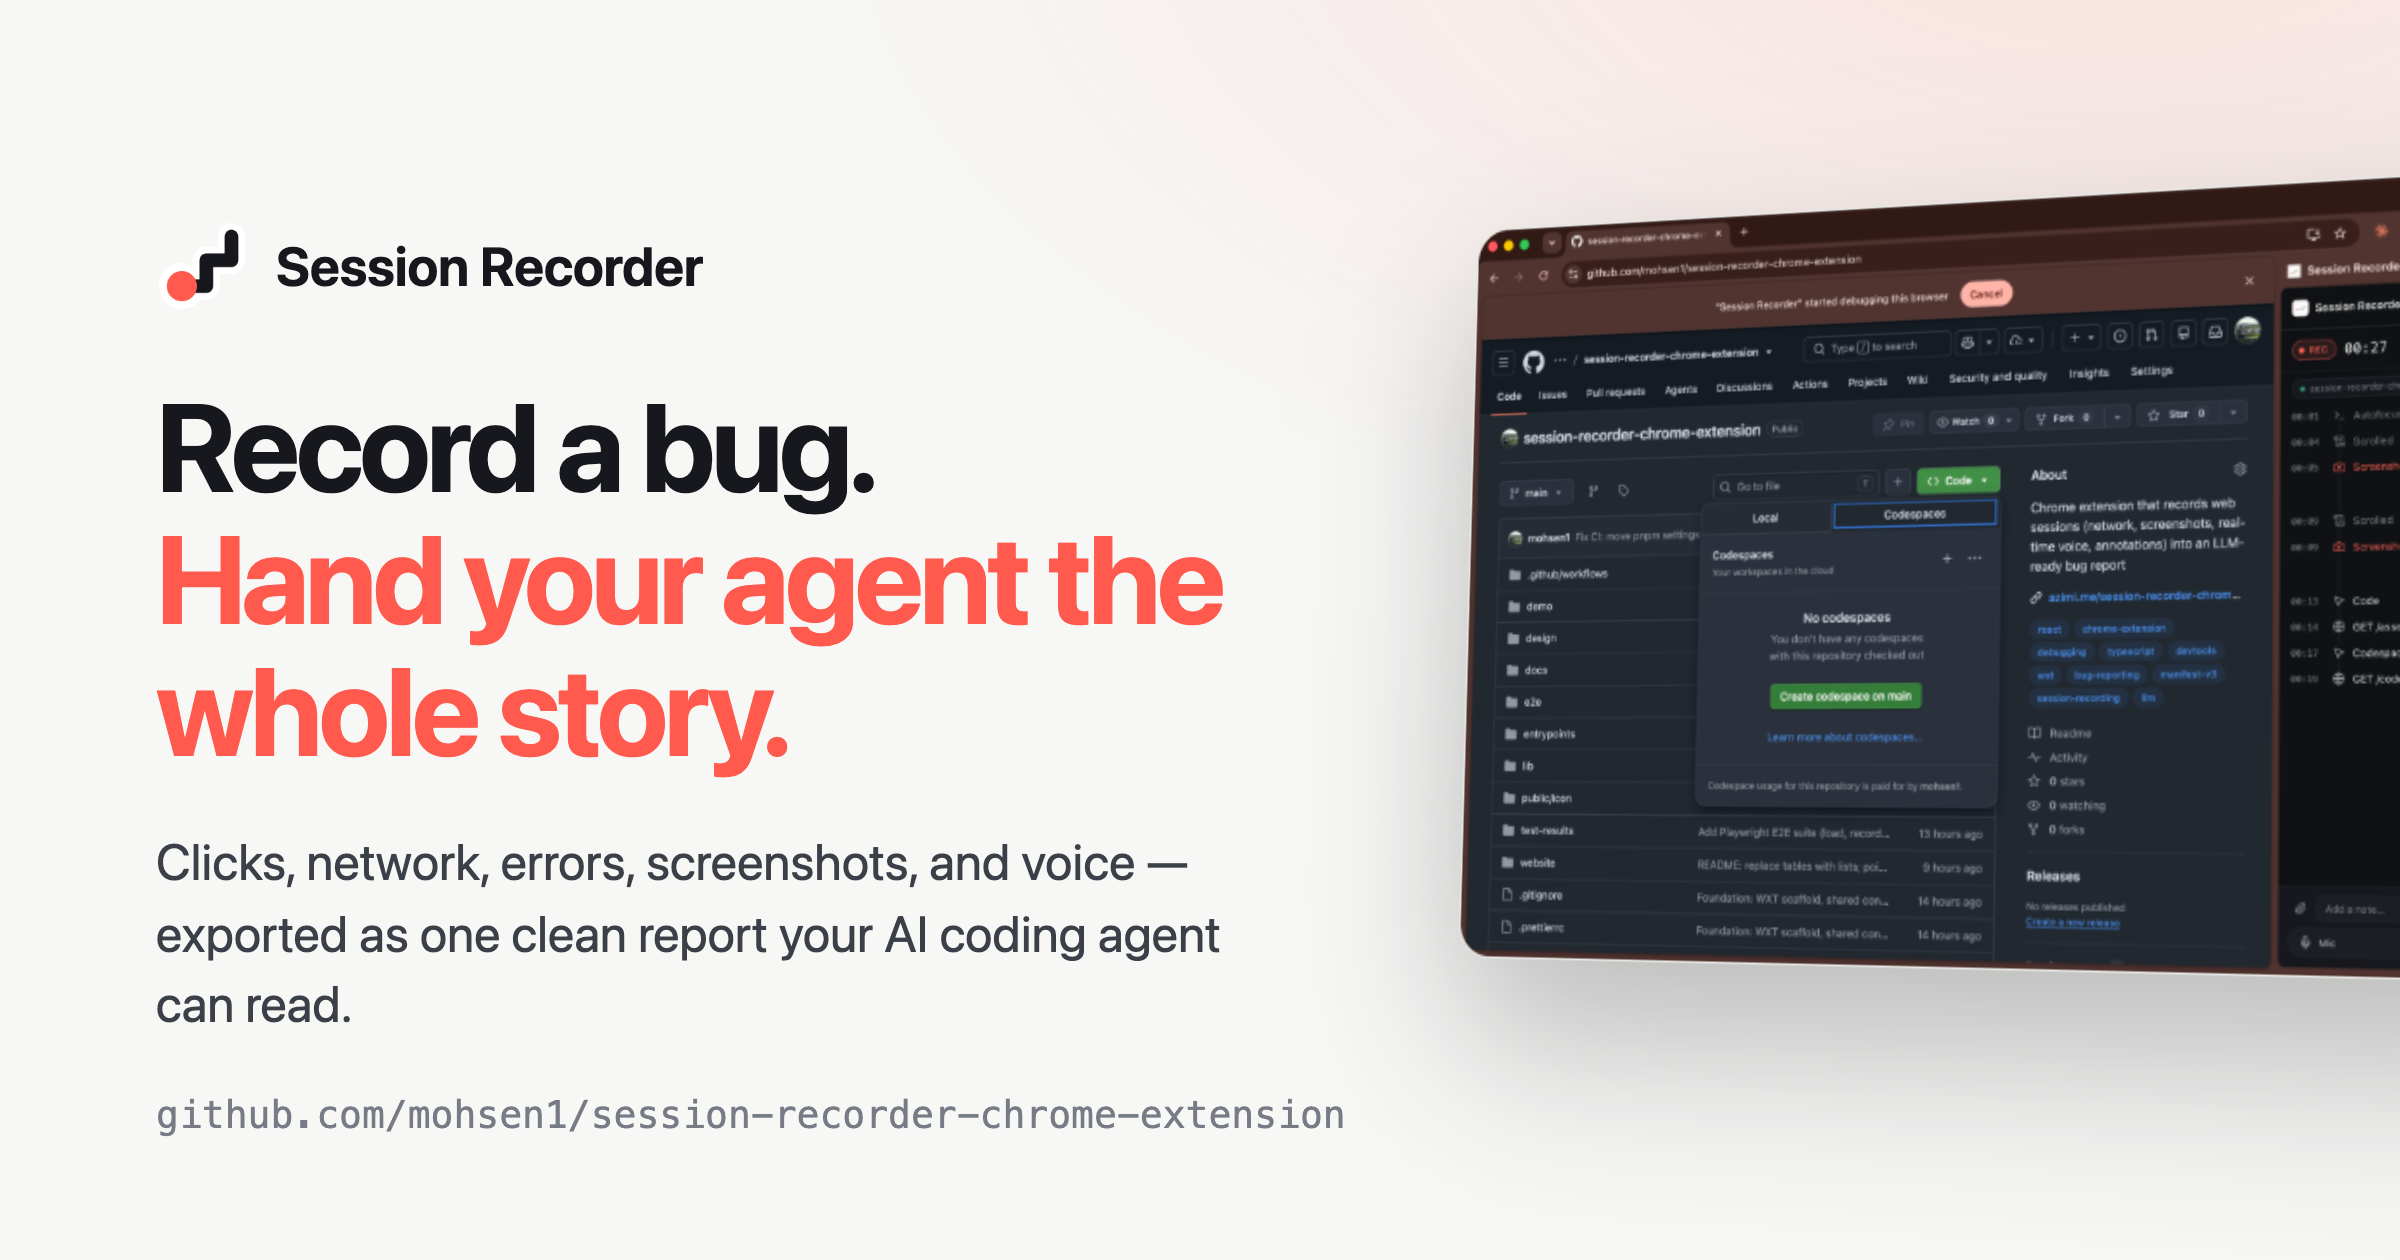
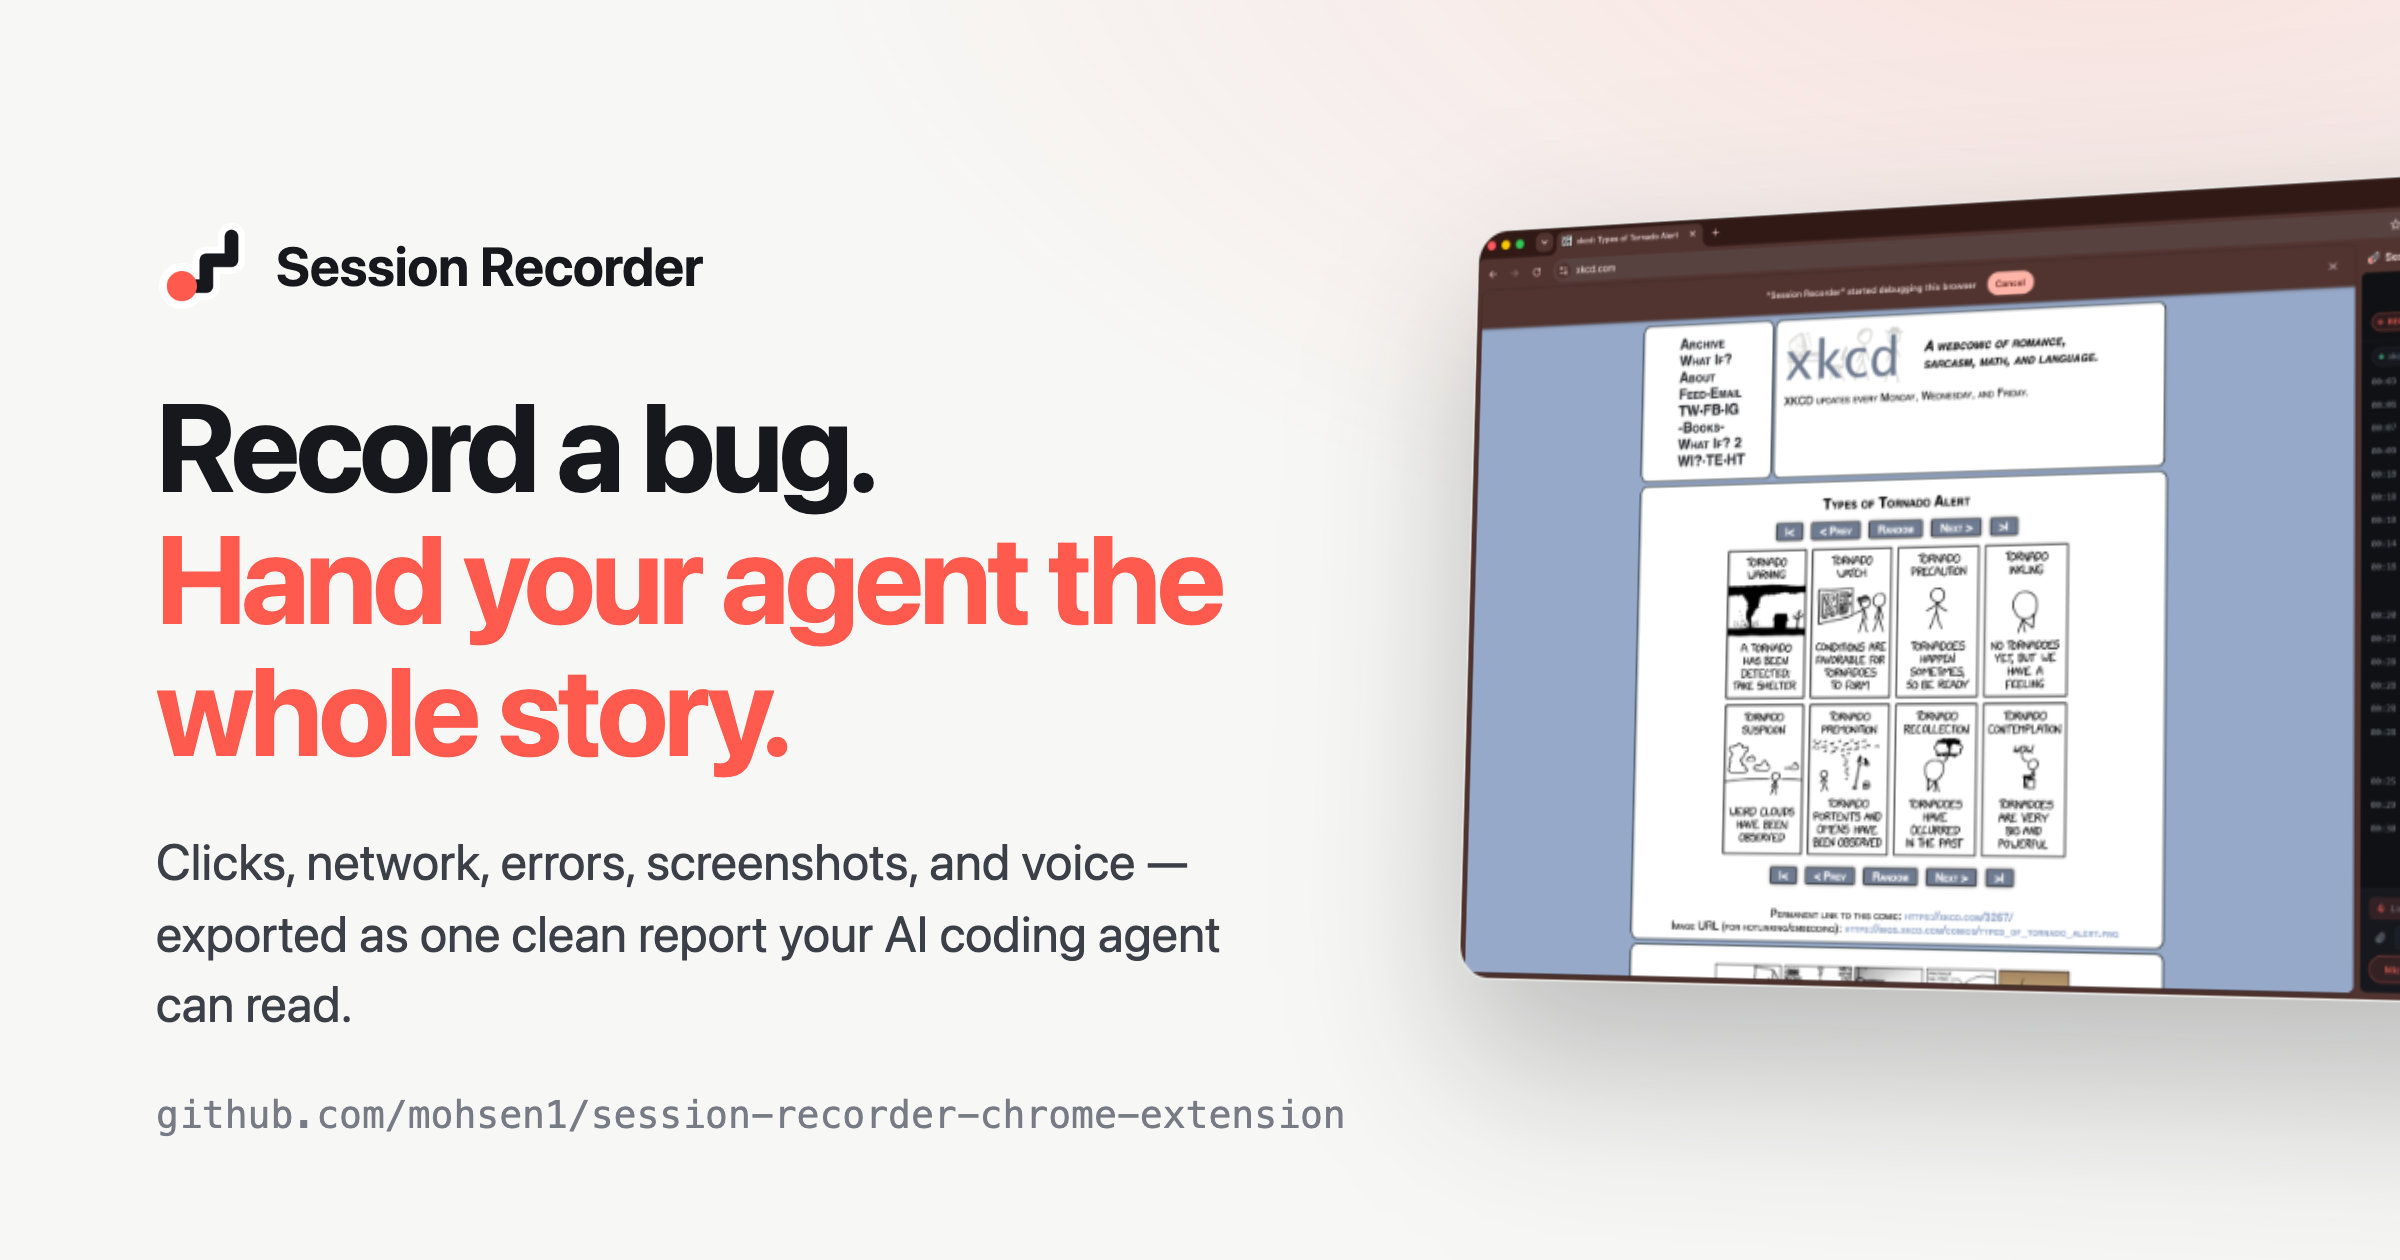
Screenshots: new light+dark captures on a real site (xkcd). README and website now swap images to the reader's color scheme via <picture> (prefers-color-scheme). Add 1280x800 Chrome Web Store assets under docs/store/. Regenerate OG image from the new dark recording shot.

Changed region(s): [[0.5938, 0.1548, 1.0, 0.8048]]

diff --git a/website/index.html b/website/index.html
@@ -83,11 +83,14 @@
 
       <div class="hero__shot">
         <div class="shot shot--hero">
-          <img
-            src="./shots/02-recording.png"
-            alt="Session Recorder open beside a GitHub page, recording a live timeline of clicks, network requests, and screenshots."
-            loading="eager"
-          />
+          <picture>
+            <source media="(prefers-color-scheme: dark)" srcset="./shots/recording-dark.png" />
+            <img
+              src="./shots/recording-light.png"
+              alt="Session Recorder open beside a web page, recording a live timeline of clicks, network requests, and screenshots."
+              loading="eager"
+            />
+          </picture>
         </div>
       </div>
 
@@ -137,11 +140,14 @@
           </div>
           <div class="feature__shot">
             <div class="shot shot--tilt-r">
-              <img
-                src="./shots/02-recording.png"
-                alt="A live timeline of clicks, screenshot thumbnails, grouped network requests, and errors as a GitHub page is used."
-                loading="eager"
-              />
+              <picture>
+                <source media="(prefers-color-scheme: dark)" srcset="./shots/recording-dark.png" />
+                <img
+                  src="./shots/recording-light.png"
+                  alt="A live timeline of clicks, screenshot thumbnails, grouped network requests, and errors as a web page is used."
+                  loading="eager"
+                />
+              </picture>
             </div>
           </div>
         </div>
@@ -158,11 +164,14 @@
           </div>
           <div class="feature__shot">
             <div class="shot shot--tilt-l">
-              <img
-                src="./shots/03-annotate.png"
-                alt="The annotation editor with a coral arrow and the text 'this button' pointing at a button on a GitHub settings page."
-                loading="eager"
-              />
+              <picture>
+                <source media="(prefers-color-scheme: dark)" srcset="./shots/annotate-dark.png" />
+                <img
+                  src="./shots/annotate-light.png"
+                  alt="The annotation editor with a coral arrow and the text 'this button' pointing at a button on a web page."
+                  loading="eager"
+                />
+              </picture>
             </div>
           </div>
         </div>
@@ -180,11 +189,14 @@
           </div>
           <div class="feature__shot">
             <div class="shot shot--tilt-r">
-              <img
-                src="./shots/04-export.png"
-                alt="The export panel showing four detail levels with token estimates, a saved and transcription-complete status, and a Download button."
-                loading="eager"
-              />
+              <picture>
+                <source media="(prefers-color-scheme: dark)" srcset="./shots/report-dark.png" />
+                <img
+                  src="./shots/report-light.png"
+                  alt="The rendered report next to the export panel: four detail levels with token estimates, a saved and transcription-complete status, and a Download button."
+                  loading="eager"
+                />
+              </picture>
             </div>
           </div>
         </div>

diff --git a/docs/store/README.md b/docs/store/README.md
@@ -1,0 +1,17 @@
+# Chrome Web Store assets
+
+Ready-to-upload screenshots for the Chrome Web Store listing, sized to the
+store's **1280×800** requirement (light mode, since the store shows one theme).
+
+| File | Shows |
+| --- | --- |
+| `record.png` | The Record split button and past sessions — getting started. |
+| `recording.png` | A live recording: timeline of clicks, network, screenshots, and voice. |
+| `annotate.png` | The annotation editor marking up a frozen screenshot. |
+| `report.png` | The rendered report beside the export panel with detail levels. |
+
+Suggested upload order: `recording` → `report` → `annotate` → `record`.
+
+The website and README use the higher-resolution, theme-aware versions under
+`docs/screenshots/` (light + dark, swapped via `<picture>`). Regenerate all of
+these from source captures if the UI changes.

diff --git a/README.md b/README.md
@@ -16,7 +16,10 @@ exports one clean report your agent can read.
 Website: [azimi.me/session-recorder-chrome-extension](https://azimi.me/session-recorder-chrome-extension/)
 
 <p align="center">
-  <img src="docs/screenshots/02-recording.png" width="820" alt="Session Recorder open beside a web page, recording a live timeline of clicks, network requests, and screenshots." />
+  <picture>
+    <source media="(prefers-color-scheme: dark)" srcset="docs/screenshots/recording-dark.png" />
+    <img src="docs/screenshots/recording-light.png" width="820" alt="Session Recorder open beside a web page, recording a live timeline of clicks, network requests, and screenshots." />
+  </picture>
 </p>
 
 ## What you get
@@ -35,7 +38,10 @@ Freeze the screen and mark it up. The annotated image goes straight into the
 report, so your agent sees the exact thing you meant.
 
 <p align="center">
-  <img src="docs/screenshots/03-annotate.png" width="820" alt="The annotation editor: a toolbar over a frozen screenshot, with a coral arrow and text pointing at a button." />
+  <picture>
+    <source media="(prefers-color-scheme: dark)" srcset="docs/screenshots/annotate-dark.png" />
+    <img src="docs/screenshots/annotate-light.png" width="820" alt="The annotation editor: a toolbar over a frozen screenshot, with a coral arrow and text pointing at a button." />
+  </picture>
 </p>
 
 ### Right-sized for any model
@@ -45,7 +51,10 @@ export. The same recording can be re-exported at any level later. Your explicit
 signals — voice, annotations, markers, notes, and errors — are never trimmed.
 
 <p align="center">
-  <img src="docs/screenshots/04-export.png" width="820" alt="The export panel with four detail levels, each showing a token estimate, and a Download button." />
+  <picture>
+    <source media="(prefers-color-scheme: dark)" srcset="docs/screenshots/report-dark.png" />
+    <img src="docs/screenshots/report-light.png" width="820" alt="The rendered report with the export panel: four detail levels, each showing a token estimate, and a Download button." />
+  </picture>
 </p>
 
 ### Secrets stay secret